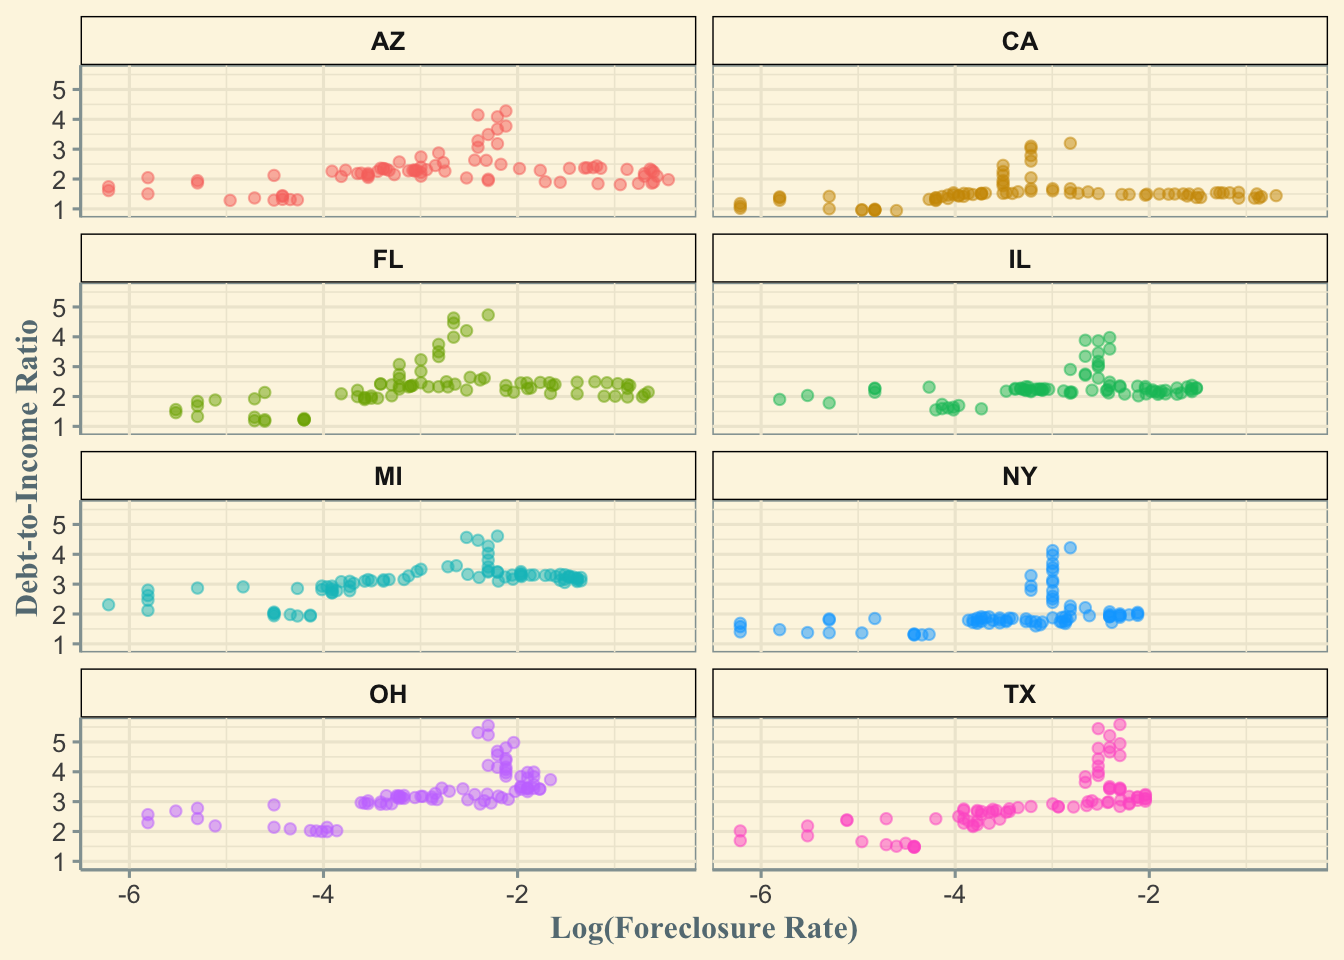
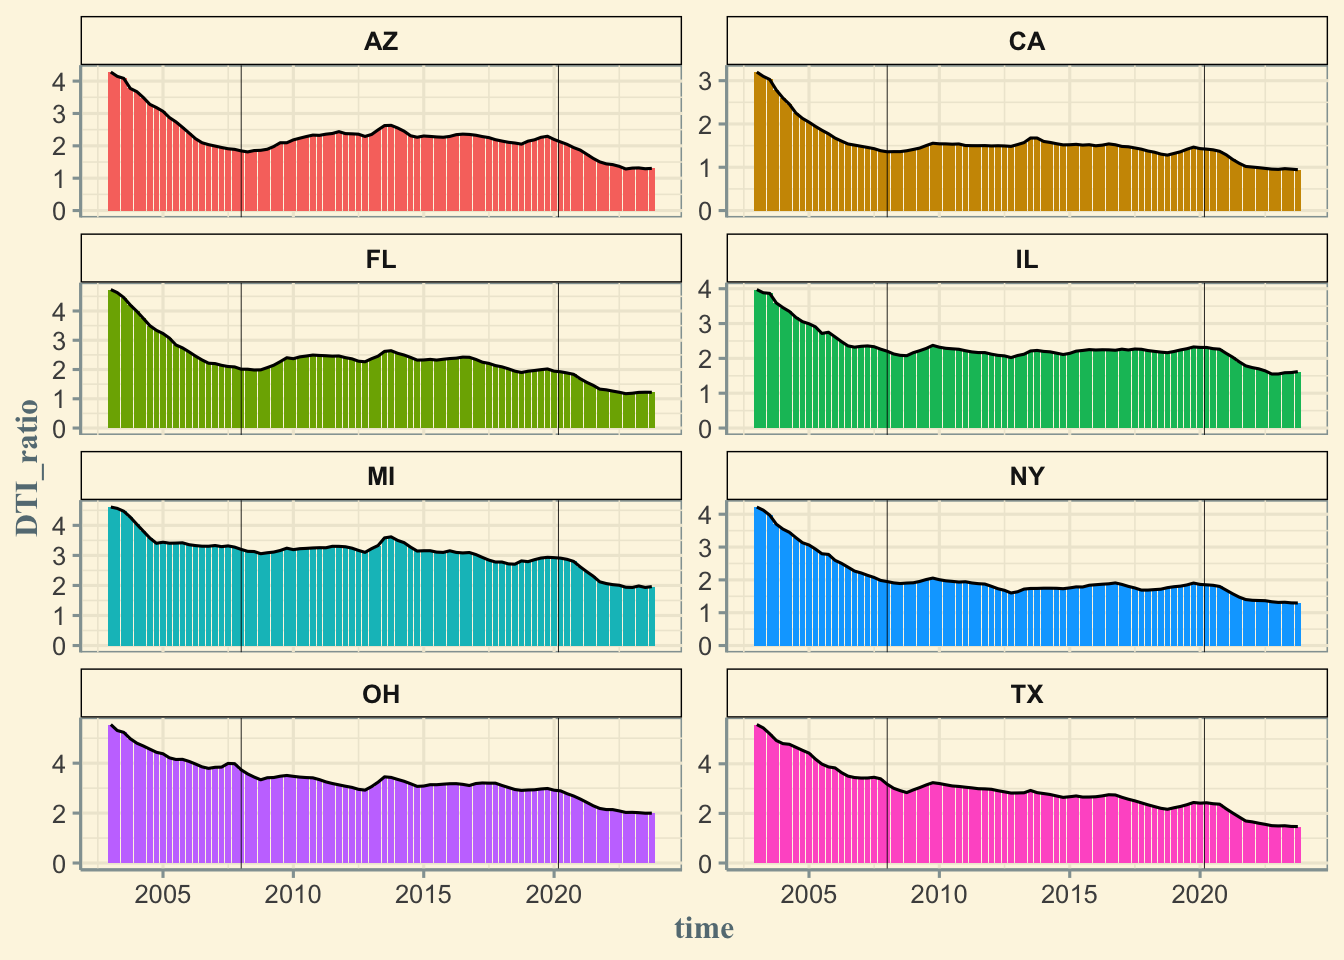
Capstone Corrections

diff --git a/Spring2026Projects/Capstone-paper.html b/Spring2026Projects/Capstone-paper.html
@@ -8,7 +8,7 @@
 
 <meta name="author" content="Christopher Taratko">
 
-<title>Capstone-Paper – Christopher Taratko</title>
+<title>Capstone Paper: Household Financial Health – Christopher Taratko</title>
 <style>
 /* Default styles provided by pandoc.
 ** See https://pandoc.org/MANUAL.html#variables-for-html for config info.
@@ -23,6 +23,41 @@ ul.task-list li input[type="checkbox"] {
   width: 0.8em;
   margin: 0 0.8em 0.2em -1em; /* quarto-specific, see https://github.com/quarto-dev/quarto-cli/issues/4556 */ 
   vertical-align: middle;
+}
+/* CSS for syntax highlighting */
+html { -webkit-text-size-adjust: 100%; }
+pre > code.sourceCode { white-space: pre; position: relative; }
+pre > code.sourceCode > span { display: inline-block; line-height: 1.25; }
+pre > code.sourceCode > span:empty { height: 1.2em; }
+.sourceCode { overflow: visible; }
+code.sourceCode > span { color: inherit; text-decoration: inherit; }
+div.sourceCode { margin: 1em 0; }
+pre.sourceCode { margin: 0; }
+@media screen {
+div.sourceCode { overflow: auto; }
+}
+@media print {
+pre > code.sourceCode { white-space: pre-wrap; }
+pre > code.sourceCode > span { text-indent: -5em; padding-left: 5em; }
+}
+pre.numberSource code
+  { counter-reset: source-line 0; }
+pre.numberSource code > span
+  { position: relative; left: -4em; counter-increment: source-line; }
+pre.numberSource code > span > a:first-child::before
+  { content: counter(source-line);
+    position: relative; left: -1em; text-align: right; vertical-align: baseline;
+    border: none; display: inline-block;
+    -webkit-touch-callout: none; -webkit-user-select: none;
+    -khtml-user-select: none; -moz-user-select: none;
+    -ms-user-select: none; user-select: none;
+    padding: 0 4px; width: 4em;
+  }
+pre.numberSource { margin-left: 3em;  padding-left: 4px; }
+div.sourceCode
+  {   }
+@media screen {
+pre > code.sourceCode > span > a:first-child::before { text-decoration: underline; }
 }
 </style>
 
@@ -405,7 +440,11 @@ window.Quarto = {
   </ul></li>
   </ul></li>
   <li><a href="#results" id="toc-results" class="nav-link" data-scroll-target="#results">Results</a></li>
-  <li><a href="#discussion-and-implications" id="toc-discussion-and-implications" class="nav-link" data-scroll-target="#discussion-and-implications">Discussion and Implications</a></li>
+  <li><a href="#discussion-and-implications" id="toc-discussion-and-implications" class="nav-link" data-scroll-target="#discussion-and-implications">Discussion and Implications</a>
+  <ul class="collapse">
+  <li><a href="#public-policy" id="toc-public-policy" class="nav-link" data-scroll-target="#public-policy">Public Policy</a></li>
+  <li><a href="#business-implications" id="toc-business-implications" class="nav-link" data-scroll-target="#business-implications">Business Implications</a></li>
+  </ul></li>
   <li><a href="#conclusion" id="toc-conclusion" class="nav-link" data-scroll-target="#conclusion">Conclusion</a></li>
   <li><a href="#references" id="toc-references" class="nav-link" data-scroll-target="#references">References</a></li>
   </ul>
@@ -417,7 +456,7 @@ window.Quarto = {
 
 <header id="title-block-header" class="quarto-title-block default">
 <div class="quarto-title">
-<h1 class="title">Capstone-Paper</h1>
+<h1 class="title">Capstone Paper: Household Financial Health</h1>
 </div>
 
 
@@ -517,7 +556,40 @@ window.Quarto = {
 </div>
 </div>
 </div>
-<p>Over the past 10 years, delinquent payments have become less and less of an issue. While this is seen as a good</p>
+<p>Over the past 10 years, delinquent payments have become less and less of an issue. This is seen as an overall good measurement in terms of</p>
+<div class="cell">
+<div class="code-copy-outer-scaffold"><div class="sourceCode cell-code" id="cb1"><pre class="sourceCode r code-with-copy"><code class="sourceCode r"><span id="cb1-1"><a href="#cb1-1" aria-hidden="true" tabindex="-1"></a><span class="fu">summary</span>(model_prep)</span></code></pre></div><button title="Copy to Clipboard" class="code-copy-button"><i class="bi"></i></button></div>
+<div class="cell-output cell-output-stdout">
+<pre><code>       state          year         quarter       DebtValue      Median_H_Inc  
+ Length   :672   Min.   :2003   Min.   :1.00   Min.   :24.42   Min.   :58630  
+ N.unique :  8   1st Qu.:2008   1st Qu.:1.75   1st Qu.:37.04   1st Qu.:66690  
+ N.blank  :  0   Median :2013   Median :2.50   Median :45.63   Median :71149  
+ Min.nchar:  2   Mean   :2013   Mean   :2.50   Mean   :47.15   Mean   :72693  
+ Max.nchar:  2   3rd Qu.:2018   3rd Qu.:3.25   3rd Qu.:52.25   3rd Qu.:77815  
+                 Max.   :2023   Max.   :4.00   Max.   :88.01   Max.   :94660  
+    mean_AGI         MinWage            HPI        Delinquency_pct 
+ Min.   : 45370   Min.   : 4.250   Min.   :140.5   Min.   : 0.950  
+ 1st Qu.: 57793   1st Qu.: 6.859   1st Qu.:170.9   1st Qu.: 2.418  
+ Median : 66332   Median : 7.625   Median :192.6   Median : 3.570  
+ Mean   : 69213   Mean   : 7.913   Mean   :213.2   Mean   : 4.365  
+ 3rd Qu.: 77308   3rd Qu.: 8.606   3rd Qu.:242.4   3rd Qu.: 5.190  
+ Max.   :117000   Max.   :15.500   Max.   :474.3   Max.   :18.150  
+   Mean_Mpct          Med_Mpct          mean_CPI     ForeclosureRate  
+ Min.   : 0.2300   Min.   : 0.2000   Min.   :101.7   Min.   :0.00200  
+ 1st Qu.: 0.7703   1st Qu.: 0.7463   1st Qu.:202.2   1st Qu.:0.02300  
+ Median : 1.6953   Median : 1.6575   Median :229.6   Median :0.05000  
+ Mean   : 3.1471   Mean   : 3.1158   Mean   :224.3   Mean   :0.08814  
+ 3rd Qu.: 4.0226   3rd Qu.: 3.9997   3rd Qu.:253.1   3rd Qu.:0.11000  
+ Max.   :19.1916   Max.   :18.8906   Max.   :328.4   Max.   :0.64000  
+   DTI_ratio           time           
+ Min.   :0.9437   Min.   :2003-01-01  
+ 1st Qu.:1.8783   1st Qu.:2008-03-09  
+ Median :2.3065   Median :2013-05-16  
+ Mean   :2.4832   Mean   :2013-05-16  
+ 3rd Qu.:3.0870   3rd Qu.:2018-07-24  
+ Max.   :5.5825   Max.   :2023-10-01  </code></pre>
+</div>
+</div>
 </section>
 <section id="debt-to-income-ratios-over-time" class="level3">
 <h3 class="anchored" data-anchor-id="debt-to-income-ratios-over-time">Debt-to-Income Ratios Over Time</h3>
@@ -525,7 +597,7 @@ window.Quarto = {
 <div class="cell-output-display">
 <div>
 <figure class="figure">
-<p><img src="Capstone-paper_files/figure-html/unnamed-chunk-4-1.png" class="img-fluid figure-img" width="672"></p>
+<p><img src="Capstone-paper_files/figure-html/unnamed-chunk-5-1.png" class="img-fluid figure-img" width="672"></p>
 </figure>
 </div>
 </div>
@@ -534,7 +606,16 @@ window.Quarto = {
 <div class="cell-output-display">
 <div>
 <figure class="figure">
-<p><img src="Capstone-paper_files/figure-html/unnamed-chunk-5-1.png" class="img-fluid figure-img" width="672"></p>
+<p><img src="Capstone-paper_files/figure-html/unnamed-chunk-6-1.png" class="img-fluid figure-img" width="672"></p>
+</figure>
+</div>
+</div>
+</div>
+<div class="cell">
+<div class="cell-output-display">
+<div>
+<figure class="figure">
+<p><img src="Capstone-paper_files/figure-html/unnamed-chunk-7-1.png" class="img-fluid figure-img" width="672"></p>
 </figure>
 </div>
 </div>
@@ -659,9 +740,21 @@ Note:                                                                *p&lt;0.1; 
 </section>
 <section id="discussion-and-implications" class="level1">
 <h1>Discussion and Implications</h1>
+<section id="public-policy" class="level2">
+<h2 class="anchored" data-anchor-id="public-policy">Public Policy</h2>
+<p>There are many public policies that can be implemented when it comes to the results of the data. Starting off, Income based debt relief programs are a very easy and direct form of assisting public financial health. While this only solves the problem in the Short Run, it does allow individuals to be given a second chance on debt they would’ve otherwise been unable to pay back. For the second option, there’s the use of Financial Literacy Courses. Courses like these would have the opportunity to be implemented within any school, preferably targeted towards High-School students that are close to graduating. While this can be effective for teaching individuals who will begin facing the use of debt, it would also be effective to offer programs to individuals that are already established in their career or outside of primary schooling. This would be the most beneficial, allowing people to get practice with financial situations they may come across, and create a baseline of financial literacy to allow people to know their limits in relation to their finances and the economy overall. Lastly, a viable public policy would be to implement a sub division of the Federal Housing Finance Agency, one that would would create a financial database of understanding housing valuations via the specifications of the houses. Starting points would consist of County/State locations, House Age, House-owned Appliances retained through sale of the home, and ratings of local education.</p>
+</section>
+<section id="business-implications" class="level2">
+<h2 class="anchored" data-anchor-id="business-implications">Business Implications</h2>
+<p>Businesses play an integral role in terms of Household Financial Health. Individuals rely on larger institutions to provide loans and the terms to be agreeable on both ends of the contract. With that said, companies are able to provide different loans, such as “Pay-Day” loans, or even “Buy-Now Pay-Later” Structures that are sold through third parties, but backed by large financial institutions. These structures are easy ways to get access to money or to even stretch payments over a period of time. The issue that presents itself here is the background checks and the usage of these financial instruments. These instruments can be used on non-essentials, and have less restrictions state-by-state in terms of capping their interest rates &amp; debt collection. These loans aren’t FDIC backed, but have large financial institutions putting forth equity on them, despite their debt collection being minimally invasive in relation to delinquent payments. This implies that the debt on these loans are utilized on the books for their high interest rates to be collected in the future. These are high risk investments due to their lack of debt collection, but the issue is significant due to it being monetarily backed by Financial Institutions. This can cause increase in rates on normal loans to offset the risk of this investment, but could cause macro-economic issues if the monetary value is large enough. Overall, the business implication from this data is to regulate these financial instruments in order to balance the incentive of utilizing backed, standardized financial instruments with lower risk.</p>
+</section>
 </section>
 <section id="conclusion" class="level1">
 <h1>Conclusion</h1>
+<p>Debt-to-Income ratios are based on the premise that individuals and entities can only acquire so much debt until they become over-burdened. Companies are known for higher DTI ratios due to their ability to continuously generate profit as long as there’s no significant likelihood for <em>Going Concern</em>. Some companies are more debt heavy than others, usually pertaining to specific Sectors or Industries of the market. The same relates to individuals and households, just at lower levels.</p>
+<p>The Regression table estimates from pooled OLS, state fixed effects (FE), and two-way fixed effects (TWFE) models. Across all specifications, debt value and housing prices exhibit statistically significant negative relationships with the debt-to-income ratio, while median household income is consistently positive and significant. The magnitude of these coefficients remains relatively stable across models, suggesting robust relationships.</p>
+<p>However, several variables—such as minimum wage, delinquency rates, and foreclosure rates—lose statistical significance in the TWFE specification. This indicates that their apparent effects in simpler models are likely driven by time-specific shocks rather than within-state variation. In particular, the coefficient on CPI changes sign when time fixed effects are included, highlighting the importance of controlling for macroeconomic trends.</p>
+<p>Overall, the differences between the FE and TWFE models suggest that unobserved time effects play a substantial role in explaining variation in the debt-to-income ratio, and failure to account for these effects may lead to biased estimates.</p>
 </section>
 <section id="references" class="level1">
 <h1>References</h1>
@@ -669,6 +762,7 @@ Note:                                                                *p&lt;0.1; 
 <p><strong>Bureau of Labor Statistics (BLS)</strong>. (n.d.). City <em>CPI Data and Cumulative State CPI Data.</em> <a href="https://www.bls.gov" class="uri">https://www.bls.gov</a></p>
 <p><strong>Federal Housing Finance Agency (FHFA)</strong>. (n.d.). <em>House price index data.</em> <a href="https://www.fhfa.gov" class="uri">https://www.fhfa.gov</a></p>
 <p><strong>Federal Reserve Economic Data (FRED)</strong>. (n.d.). <em>Economic research data.</em> Federal Reserve Bank of St.&nbsp;Louis. <a href="https://fred.stlouisfed.org" class="uri">https://fred.stlouisfed.org</a></p>
+<p><strong>Federal Reserve Bank of Minneapolis</strong>. (n.d.). *Research and data.* https://www.minneapolisfed.org</p>
 <p><strong>Glaeser, E. L., &amp; Gyourko, J. (2018)</strong>. The economic implications of housing supply. <em>Journal of Economic Perspectives, 32</em>(1), 3–30.</p>
 <p><strong>Mian, A., &amp; Sufi, A. (2011)</strong>. House prices, home equity-based borrowing, and the U.S. household leverage crisis. <em>American Economic Review, 101</em>(5), 2132–2156.</p>
 <p><strong>Saiz, A. (2010)</strong>. The geographic determinants of housing supply. <em>Quarterly Journal of Economics, 125</em>(3), 1253–1296.</p>